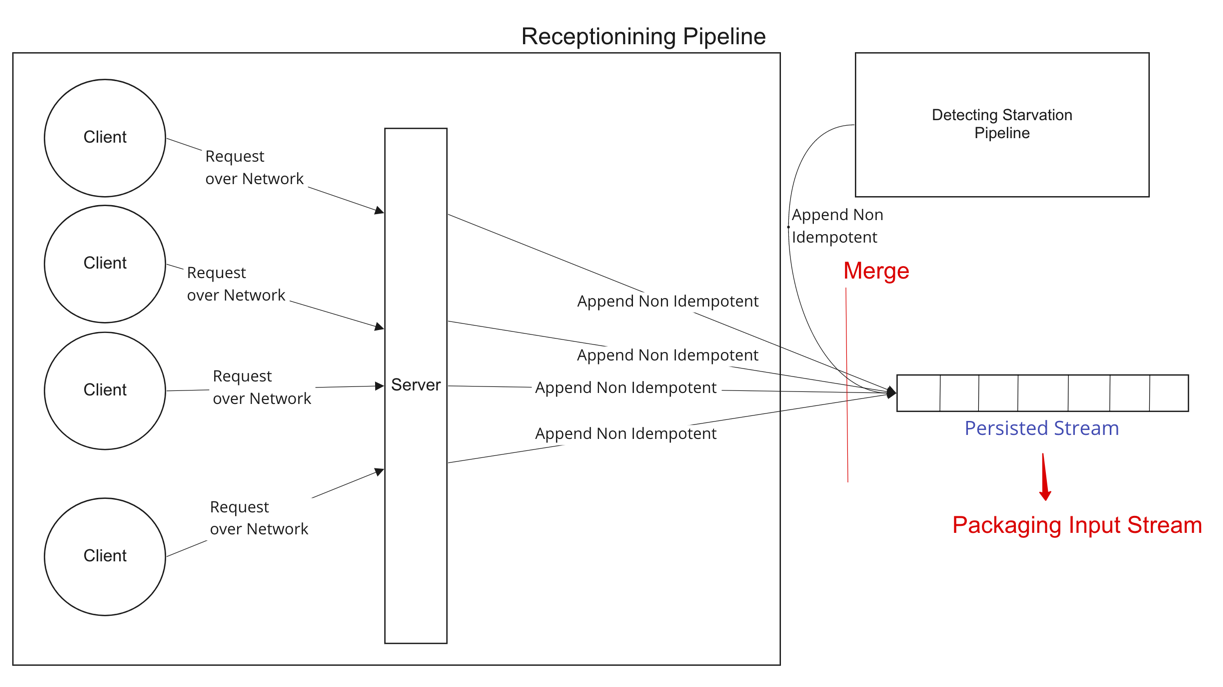
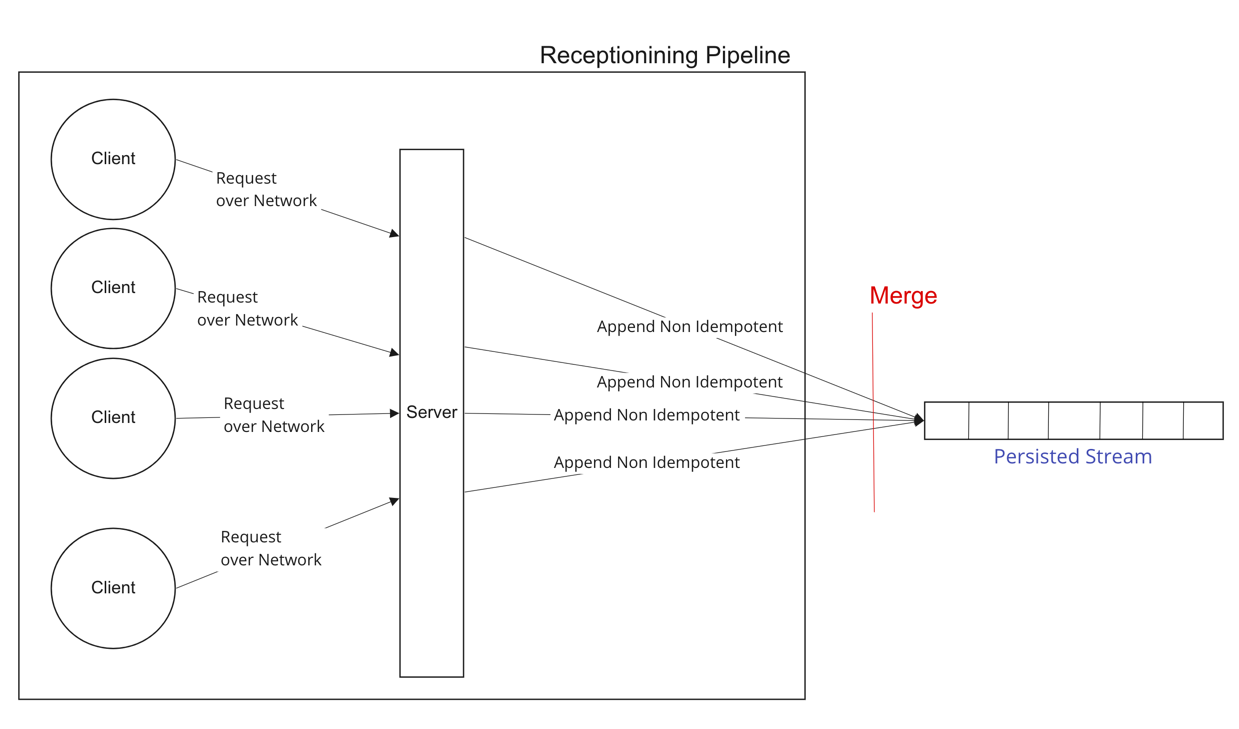
WIP

diff --git a/packages/receptioning/README.md b/packages/receptioning/README.md
@@ -3,9 +3,30 @@
 
 ![overview](documentation/media/overview.png)
 
-This non-deterministic pipeline
-- Send Requests over the network via [Client.hs](lib/Dolla/Consensus/Proposing/Receptioning/API/Client/Client.hs)
-- Receive Request via [Server.hs](lib/Dolla/Consensus/Proposing/Receptioning/Server/Server.hs)
+
+<img align="right" src="documentation/media/project-tree.png"><div>
+This is a non-deterministic service, A merge of clients requests
+- Send Requests over the network via [Client.hs](lib/Dolla/Consensus/Proposing/Receptioning/Instances/EventStore/Dolla/Warp/Client/Client.hs)
+- Receive Request via [Server.hs](lib/Dolla/Consensus/Proposing/Receptioning/Instances/EventStore/Dolla/Warp/Server/Server.hs)
 - Append Non Idempotently Request directly into the Packaging Input Stream
 
+`Receptioning` is Polymorphic by
+- The Log Engine used
+- The Business Logic used on top of the consensus layer (requests in that context)
 
+You'll find in this folder different version of Service.hs "polymorphically reduced" and concrete
+- [Service.hs](lib/Dolla/Consensus/Proposing/Receptioning/Instances/EventStore/Service.hs) over the event store
+- [Service.hs](lib/Dolla/Consensus/Proposing/Receptioning/Instances/EventStore/Dolla/Service.hs) over the event store + Dolla Dummy Requests (Concrete Version)
+
+`Receptioning` has some DevOps features as well
+
+- Settings.hs always into a separated project `xxxx-receptioning-settings` for deployment purposes in Zeus
+- Dependencies.hs are derived from Settings if sub-dependencies are all Healthy
+
+[Execute.hs](lib/Dolla/Consensus/Proposing/Receptioning/Instances/EventStore/Dolla/Warp/Server/Execute.hs) is an **Instance** of the Server
+- Perform the HealhtChecks to obtain the pipeline dependencies
+- Execute the server
+- Put the Microservice back in HealthCheck mode if any Exception bubbles up in the server during execution.
+
+**N.B** : Microservice configuration and Deployment Logic (Locally/Simulated/Production etc...) are defined in the package [Zeus](../zeus/)
+</div

diff --git a/packages/packaging/README.md b/packages/packaging/README.md
@@ -59,7 +59,7 @@ You'll find in this folder different version of Pipeline.hs "polymorphically red
 - Execute the pipeline + load the [junctions](#junction) in the EventStore Microservice
 - Put the Microservice back in HealthCheck mode if any Exception bubbles up in the pipeline during execution.
 
-N.B : Microservice configuration and Deployment Logic (Locally/Simulated/Production etc...) are defined in the package [Zeus](../zeus/)
+**N.B** : Microservice configuration and Deployment Logic (Locally/Simulated/Production etc...) are defined in the package [Zeus](../zeus/)
 </div>
 
 # Pipeline
@@ -79,7 +79,7 @@ We are using the "User Defined Projections" feature from the EventStore to imple
  - loaded in the event store microservice directly
  - more details : https://eventstore.org/docs/projections/api/index.html
 
-It has allowed us to move quicker on the proof of concept, but we'll need to do eventually our own to leverage Performance.
+These features were used to move quicker on the proof of concept. We'll eventually implement our own soon.
 
 > Defined in [Junction.hs](lib/Dolla/Consensus/Proposing/Packaging/Instances/EventStore/Dolla/Junction.hs)
 
@@ -141,7 +141,7 @@ The `Packaging` pipe recipe is
     .~> persisting proposalRootFolder
     .~> notifying outputLog
 ```
-> Defined in [Generic.hs](lib/Dolla/Consensus/Proposing/Packaging/Pipeline/Pipeline.hs)
+> Defined in [Pipeline.hs](lib/Dolla/Consensus/Proposing/Packaging/Pipeline/Pipeline.hs)
 
 > The welding between each pipe is defined in [/Welding/BluePrint.hs](lib/Dolla/Consensus/Proposing/Packaging/Pipeline/Welding/BluePrint.hs)
 

diff --git a/README.md b/README.md
@@ -14,13 +14,13 @@ Each of these local proposals are proposed for transactions into the consortium 
 
 A **Section** is a meaningful Set of Pipelines and Junctions put together.
 
-![proposing-overview](documentation/media/proposing-overview.png)
+![proposing-overview](proposing-overview.png)
 
 > <img align="center" src="https://via.placeholder.com/15/24A712/000000?text=+"> Worth Mentioning : [Packaging](/packages/packaging/) is the core of this section.  
-> It's a good example what we have explained in the Consensus [README.md](https://github.com/dolla-consortium/consensus)
 
-- [Receptioning](/packages/receptioning) : Client/Server for collecting requests and presenting them for being packaged into a proposal.
-- [Detecting Starvation](/packages/detecting-starvation) : Notify the `Packaging` pipeline when all the local proposals produced have been consumed.
+
+- [Receptioning](/packages/receptioning) : Client/Server for collecting requests.
+- [Detecting Starvation](/packages/detecting-starvation) : Detect that local proposals produced have been consumed and that the consensus is asking for producing new ones.
 - [Packaging](/packages/packaging/) : Produce Local Proposal Files with the following properties
   - `Proposals are never empty`
   - `Proposals file size < configurable size limit`
@@ -30,7 +30,6 @@ A **Section** is a meaningful Set of Pipelines and Junctions put together.
   - 2 modes are available :
     - **Overflowing** : Sending more requests than the consortium can consume
     - **UnderSupplying** : Sending less request than the consortium can consume
-
 
 # DevOps
 
